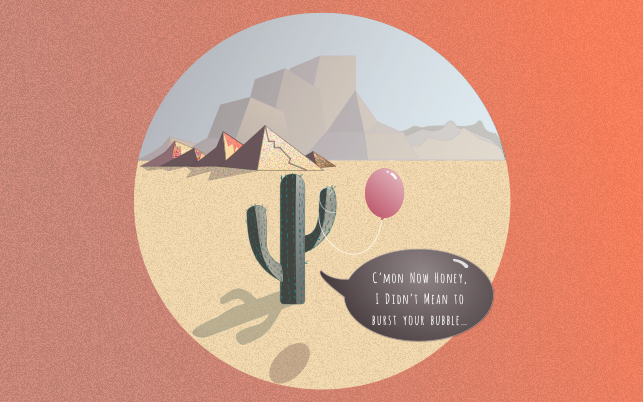
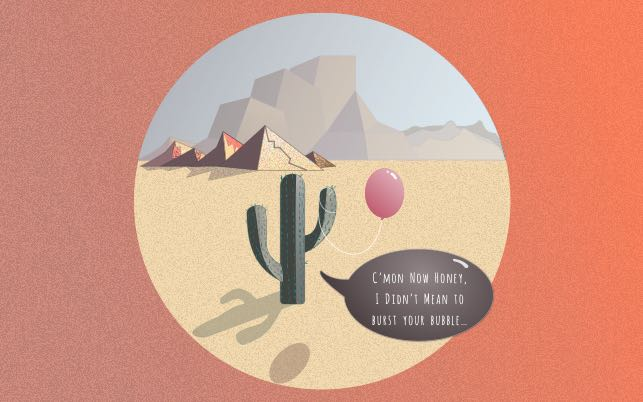
Resize all PNG to JPG

diff --git a/about.html b/about.html
@@ -129,7 +129,7 @@
     <!-- Social Media Links -->
 
 
-      <div class="row justify-content-center margin-bottom-big">
+      <div class="row justify-content-center margin-bottom-half">
          <div class="col-md">
          </div>
          <div class="col-md-6 text-center">
@@ -152,112 +152,111 @@
 
          <section class="jumbotron jumbotron-fluid jumbotron-programs">
            <div class="row justify-content-center">
-              <div class="row col-12 justify-content-center card-body-skills margin-bottom-half">
-               <h3>Favorite Programs</h3>
-              <img src=images/Programs/illustrator.jpg/>
-              <img class="card-img" src=images/Programs/illustrator.jpg/>
-              <img class="card-img" src=images/Programs/illustrator.jpg/>
-              <img class="card-img" src=images/Programs/illustrator.jpg/>
-              <img class="card-img" src=images/Programs/illustrator.jpg/>
-            </div>
-
-                <span><img class="img-fluid" src=images/Programs/illustrator.jpg/></span>
-                 <span><img class="img-fluid" src=images/Programs/illustrator.jpg/></span>
-                  <span><img class="img-fluid" src=images/Programs/illustrator.jpg/></span>
-                   <span><img class="img-fluid" src=images/Programs/illustrator.jpg/></span>
-                    <span><img class="img-fluid" src=images/Programs/illustrator.jpg/></span>
+              <div class="row col-12 card-body-skills margin-bottom-half card">
+               <h3 class="margin-bottom-quarter">Favorite Programs</h3>
+               <div class="row justify-content-center">
+                 <div class="col-xs">
+                 </div>
+                  <div class="col-xs-1">
+                    <img class="card-img" src="images/about/sketch.jpg"/>
                   </div>
-
-              <div class="row margin-bottom-half">
-              <div class="col-md">
-              </div>
-              <div class="col-md-2 col-3  text-center justify-content-center card">
-                     <img class="card-img" src="images/about/sketch.png"/>
-                       <p class="card-title">Sketch</p>
-                     </div>
-              <div class="col-md-2 col-3  text-center justify-content-center card">
-                         <img class="card-img" src="images/about/ATOM.png"/>
-                           <p class="card-title">Atom</p>
-                         </div>
-
-
-               <div class="col-md-2 col-3  text-center justify-content-center card">
-                 <img class="card-img" src="images/about/invision.png"/>
-                   <p class="card-title">Invision</p>
-                 </div>
-
-
-                 <div class="col-md-2 col-3 text-center justify-content-center card">
-                 <img class="card-img" src="images/about/illustrator.png"/>
-
-                   <p class="card-title">Adobe Illustrator</p>
-
-                 </div>
-
-                 <div class="col-md-2 col-3  text-center justify-content-center card">
-                 <img class="card-img" src="images/about/photoshop.png"/>
-
-                   <p class="card-title">Adobe Photoshop</p>
-              </div>
-              <div class="col-md">
-              </div>
-           </div>
-
-        <div class="row">
-           <div class="col-md">
-           </div>
-           <div class="col-md-2 col-3  text-center justify-content-center card">
-                 <img class="card-img" src="images/about/balsamiq.png"/>
-                   <p class="card-title">Balsamiq</p>
-               </div>
-               <div class="col-md-2 col-3  text-center justify-content-center card">
-                     <img class="card-img" src="images/about/optimal.png"/>
-                      <p class="card-title">Optimal Testing</p>
+                  <div class="col-xs-1">
+                    <img class="card-img" src="images/about/illustrator.jpg"/>
+                  </div>
+                  <div class="col-xs-1">
+                    <img class="card-img" src="images/about/photoshop.jpg"/>
+                  </div>
+                  <div class="col-xs-1">
+                    <img class="card-img" src="images/about/atom.jpg"/>
                 </div>
-
-           <div class="col-md-3 col-2  text-center justify-content-center card">
-                     <img class="card-img" src="images/about/concepts.png"/>
-                       <p class="card-title">Concepts</p>
-                     </div>
-           <div class="col-md-2 col-3  text-center justify-content-center card">
-                     <img class="card-img" src="images/about/logic.png"/>
-                       <p class="card-title">Logic</p>
-                     </div>
-           <div class="col-md">
-           </div>
-           </div>
-
+                <div class="col-xs-1">
+                  <img class="card-img" src="images/about/balsamiq.jpg"/>
+                </div>
+                <div class="col-xs">
+                </div>
+              </div>
+                <div class="row justify-content-center margin-bottom-half">
+                  <div class="col-xs">
+                  </div>
+                <div class="col-xs-1">
+                  <img class="card-img" src="images/about/concepts.jpg"/>
+                </div>
+                <div class="col-xs-1">
+                  <img class="card-img" src="images/about/invision.jpg"/>
+                </div>
+                <div class="col-xs-1">
+                  <img class="card-img" src="images/about/logic.jpg"/>
+                </div>
+                <div class="col-xs-1">
+                  <img class="card-img" src="images/about/optimal.jpg"/>
+                </div>
+                <div class="col-xs-1">
+                  <img class="card-img" src="images/about/usertesting.jpg"/>
+                </div>
+                <div class="col-xs">
+                </div>
+            </div>
+          </div>
          </div>
      </section>
+     <section class="jumbotron jumbotron-fluid jumbotron-programs">
+       <div class="row justify-content-center">
+          <div class="row col-12 card-body-skills margin-bottom-half card">
 
-         <section class="jumbotron jumbotron-fluid jumbotron-skills">
-           <div class="row">
-             <div class="col-md">
+           <h3 class="margin-bottom-quarter">Favorite Skills</h3>
+           <div class="row justify-content-center">
+             <div class="col-xs">
              </div>
-             <div class="col-md-8 col-12 text-center justify-content-center card card-body-skills">
-               <h6 class="card-title margin-bottom-half text-center">Favorite Skills</h6>
-                <div class="row justify-content-center margin-bottom-quarter">
-                  <h5 class="margin-text">User Research</h5>
-                  <h5 class="margin-text">User Interface Design</h5>
-                  <h5 class="margin-text">Competitive Analysis</h5>
-
-                </div>
-                <div class="row justify-content-center margin-bottom-quarter">
-                  <h5 class="margin-text">Branding</h5>
-                  <h5 class="margin-text">Anti-Bias UX</h5>
-                  <h5 class="margin-text">Concept & Strategy</h5>
-                  <h5 class="margin-text">Guerilla Testing</h5>
-                </div>
-                <div class="row justify-content-center">
+              <div class="col-xs-2">
+                <h5 class="margin-text">User Research</h5>
+              </div>
+              <div class="col-xs-2">
+                <h5 class="margin-text">User Interface Design</h5>
+              </div>
+              <div class="col-xs-2">
+                <h5 class="margin-text">Usability Testing</h5>
+              </div>
+              <div class="col-xs">
+              </div>
+            </div>
+            <div class="row justify-content-center">
+              <div class="col-xs">
+              </div>
+               <div class="col-xs-2">
+                 <h5 class="margin-text">Anti-Bias UX</h5>
+               </div>
+               <div class="col-xs-2">
+                 <h5 class="margin-text">Guerilla Testing</h5>
+               </div>
+               <div class="col-xs-2">
+                 <h5 class="margin-text">Competetive Analysis</h5>
+               </div>
+               <div class="col-xs-2">
+                 <h5 class="margin-text">Coding</h5>
+               </div>
+               <div class="col-xs">
+               </div>
+             </div>
+             <div class="row justify-content-center margin-bottom-half">
+               <div class="col-xs">
+               </div>
+                <div class="col-xs-2">
                   <h5 class="margin-text">Audio Production</h5>
+                </div>
+                <div class="col-xs-2">
                   <h5 class="margin-text">Social Media Strategy</h5>
+                </div>
+                <div class="col-xs-2">
                   <h5 class="margin-text">Digital Marketing</h5>
                 </div>
+                <div class="col-xs">
+                </div>
               </div>
-             <div class="col-md">
-             </div>
-           </div>
-         </section>
+            </div>
+          </div>
+        </section>
+
+
 
 
 

diff --git a/css/about.css b/css/about.css
@@ -14,11 +14,10 @@ p {
 
 .jumbotron-programs {
     position: relative;
-    padding: 40px 0;
     margin-bottom: 0px;
     color: #333;
     text-align: center;
-    background-color: #e2e2e2;
+    background-color: #fff;
 
 }
 
@@ -48,6 +47,8 @@ p {
 .margin-text {
   margin-right: 2rem;
   margin-left: 2rem;
+  margin-top: 1rem;
+  margin-bottom: 1rem;
 }
 
 .card-body-mock {
@@ -82,7 +83,7 @@ p {
   padding-left: 1rem;
   padding-right: 1rem;
   padding-bottom: 1rem;
-  padding-top: 1rem;
+  padding-top: 2rem;
   margin-left: 5rem;
   margin-right: 5rem;
   position: relative;
@@ -100,11 +101,14 @@ p {
 }
 
 .card-img {
-  width: 100%;
+  width: 50%;
+  height: auto;
   border-radius: calc(0.25rem - 1px);
   padding-top: 1rem;
   margin-bottom: 1rem;
-  vertical-align: middle;
+  display:inline-block;
+  margin-left: 1rem;
+  margin-right: 1rem;
 }
 
 .card {

diff --git a/index.html b/index.html
@@ -68,9 +68,9 @@
               </div>
              <div class="row justify-content-center margin-bottom-half">
                  <span class="margin-right"><h4>Musician</h4></span>
-                 <span class="margin-right"><img src="/images/arrow-right-smallest.svg"></span>
+                 <span class="margin-right"><img src="images/arrow-right.jpg"></span>
                  <span class="margin-right"><h4>Business Owner</h4></span>
-                 <span class="margin-right"><img src="/images/arrow-right-smallest.svg"></span>
+                 <span class="margin-right"><img src="images/arrow-right.jpg"></span>
                  <span class="margin-right"><h4>UX</h4></span>
              </div>
     <!-- Social Media Links -->

diff --git a/case-study-1.html b/case-study-1.html
@@ -372,7 +372,7 @@
                   <img class="img-fluid-flows" src="images/MOOD/User Flow.jpg"/>
                 </div>
                 <div class="col-12 text-center justify-content-center margin-bottom-half" style="background-color: #g2g2g2">
-                  <img class="img-fluid" src="images/MOOD/mood - user journey.png"/>
+                  <img class="img-fluid" src="images/MOOD/mood - user journey.jpg"/>
                 </div>
               </div>
           </section>
